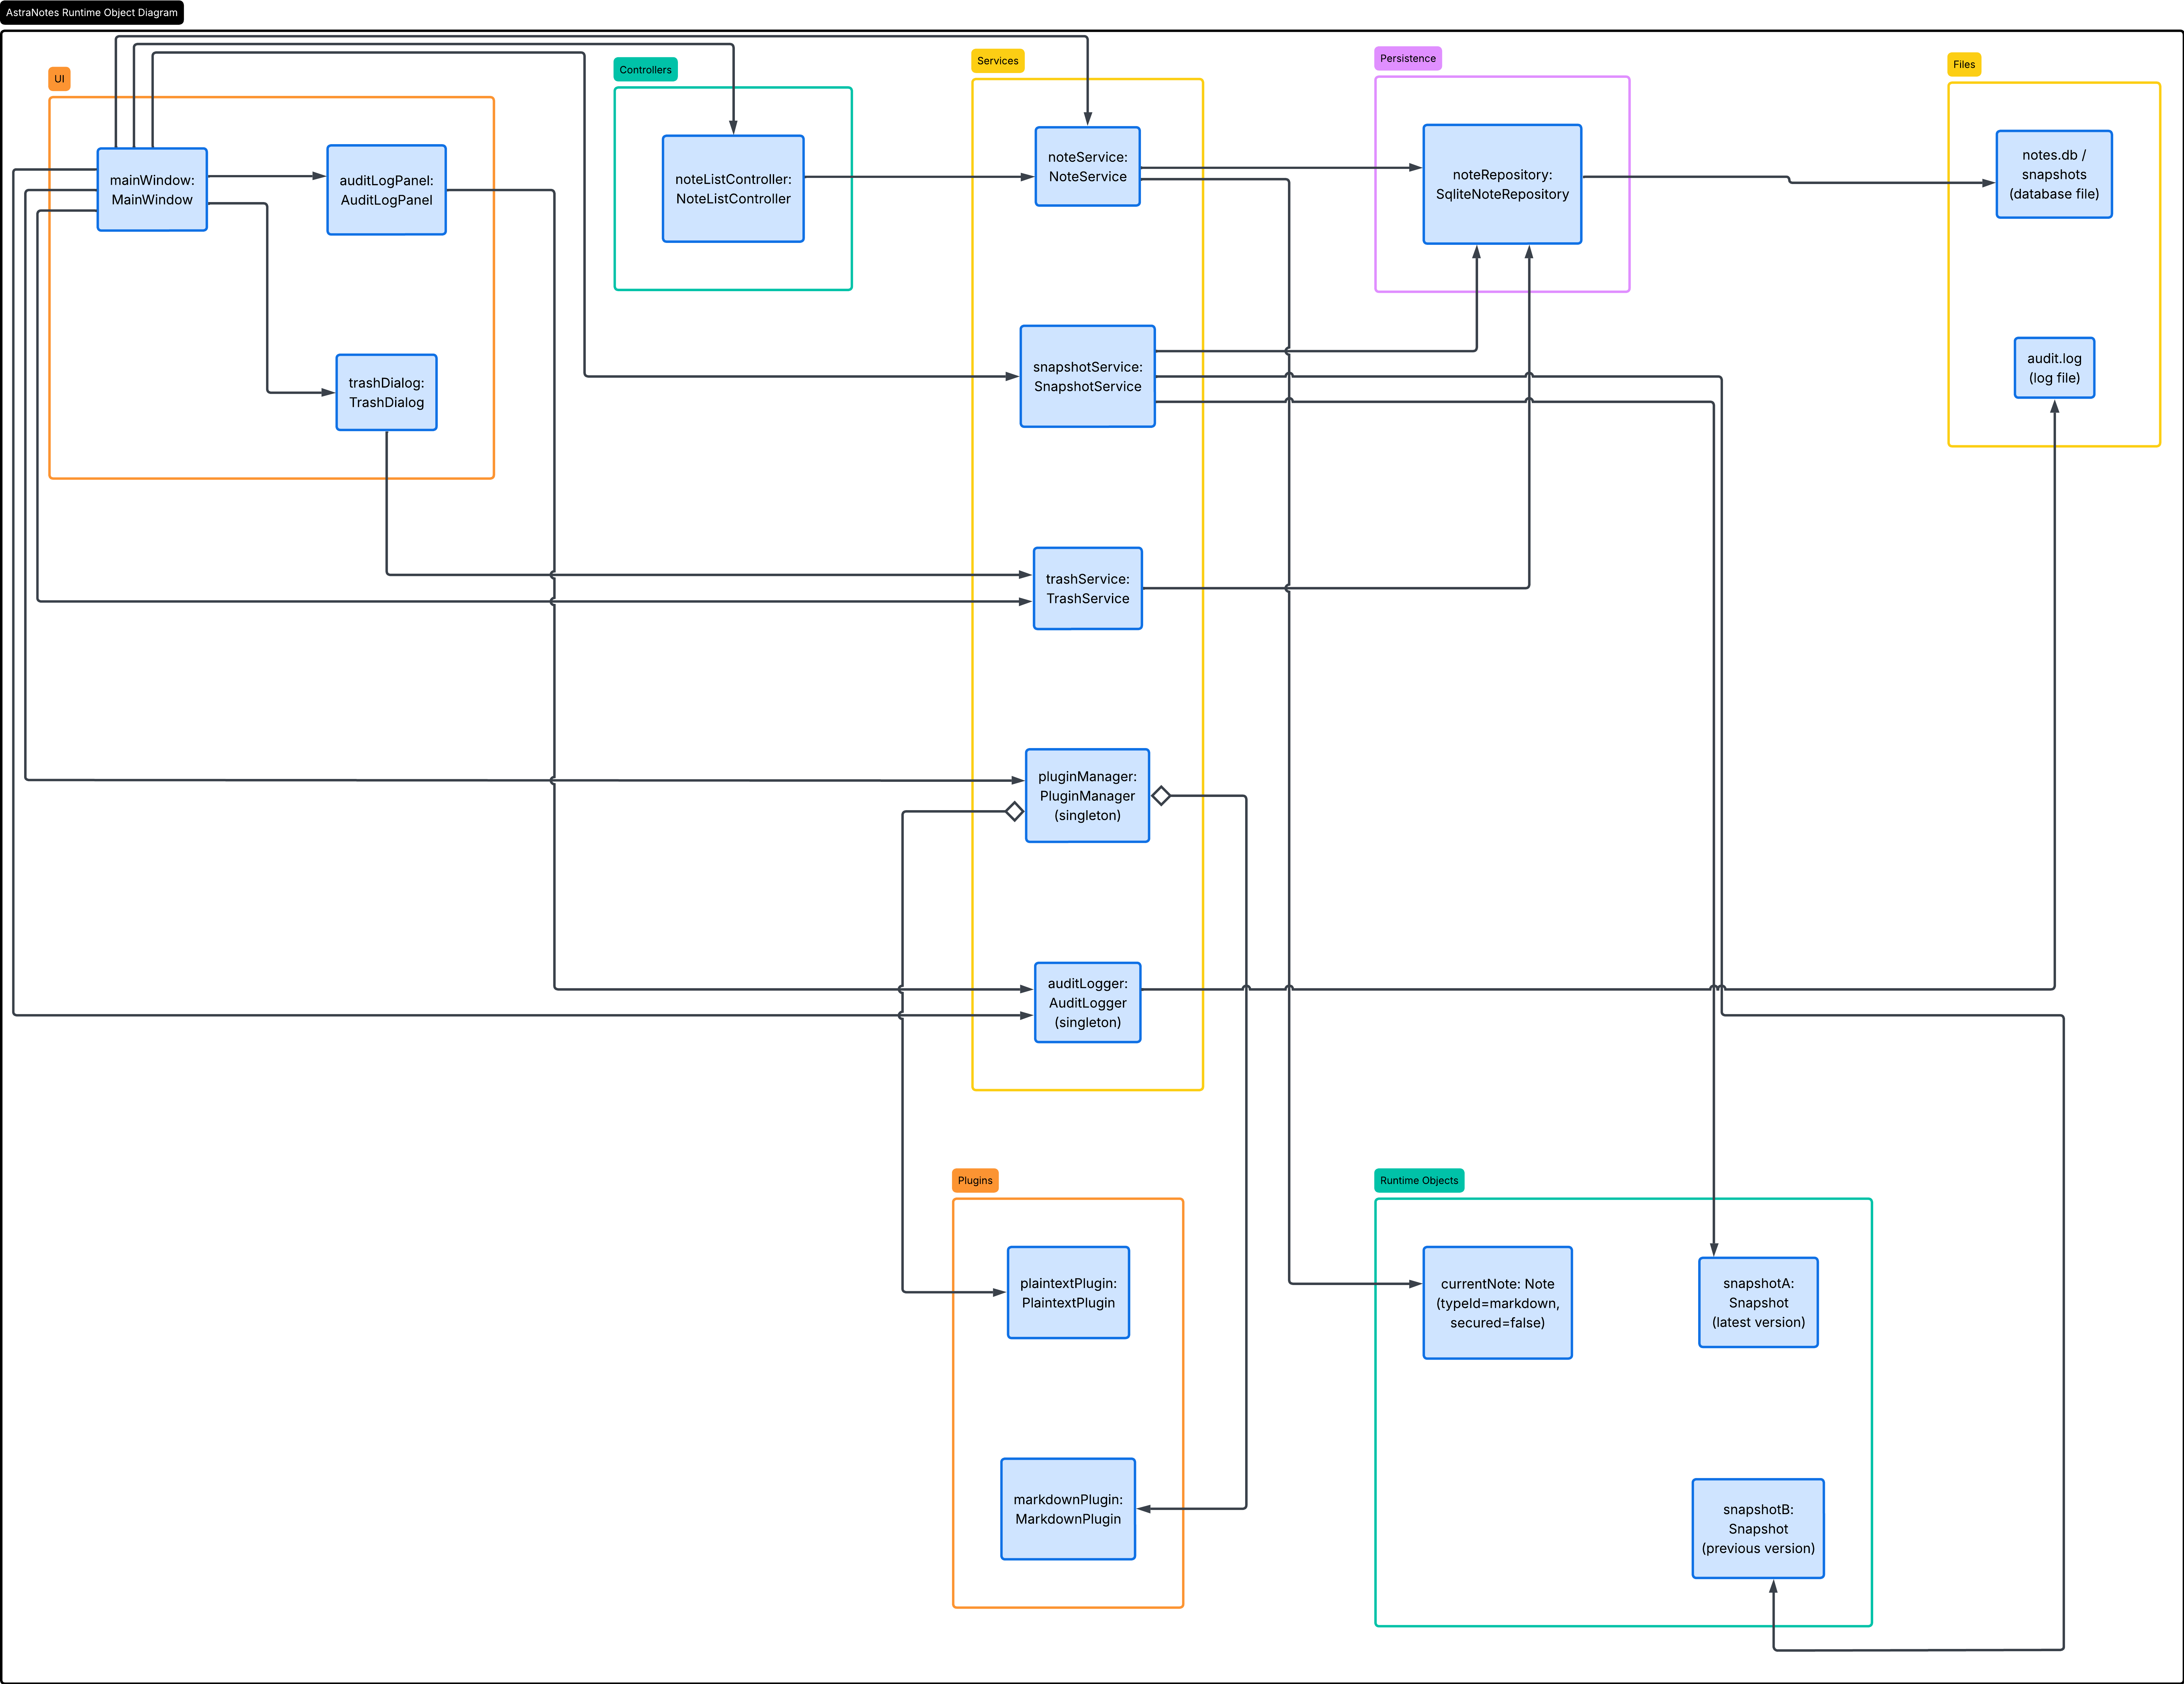
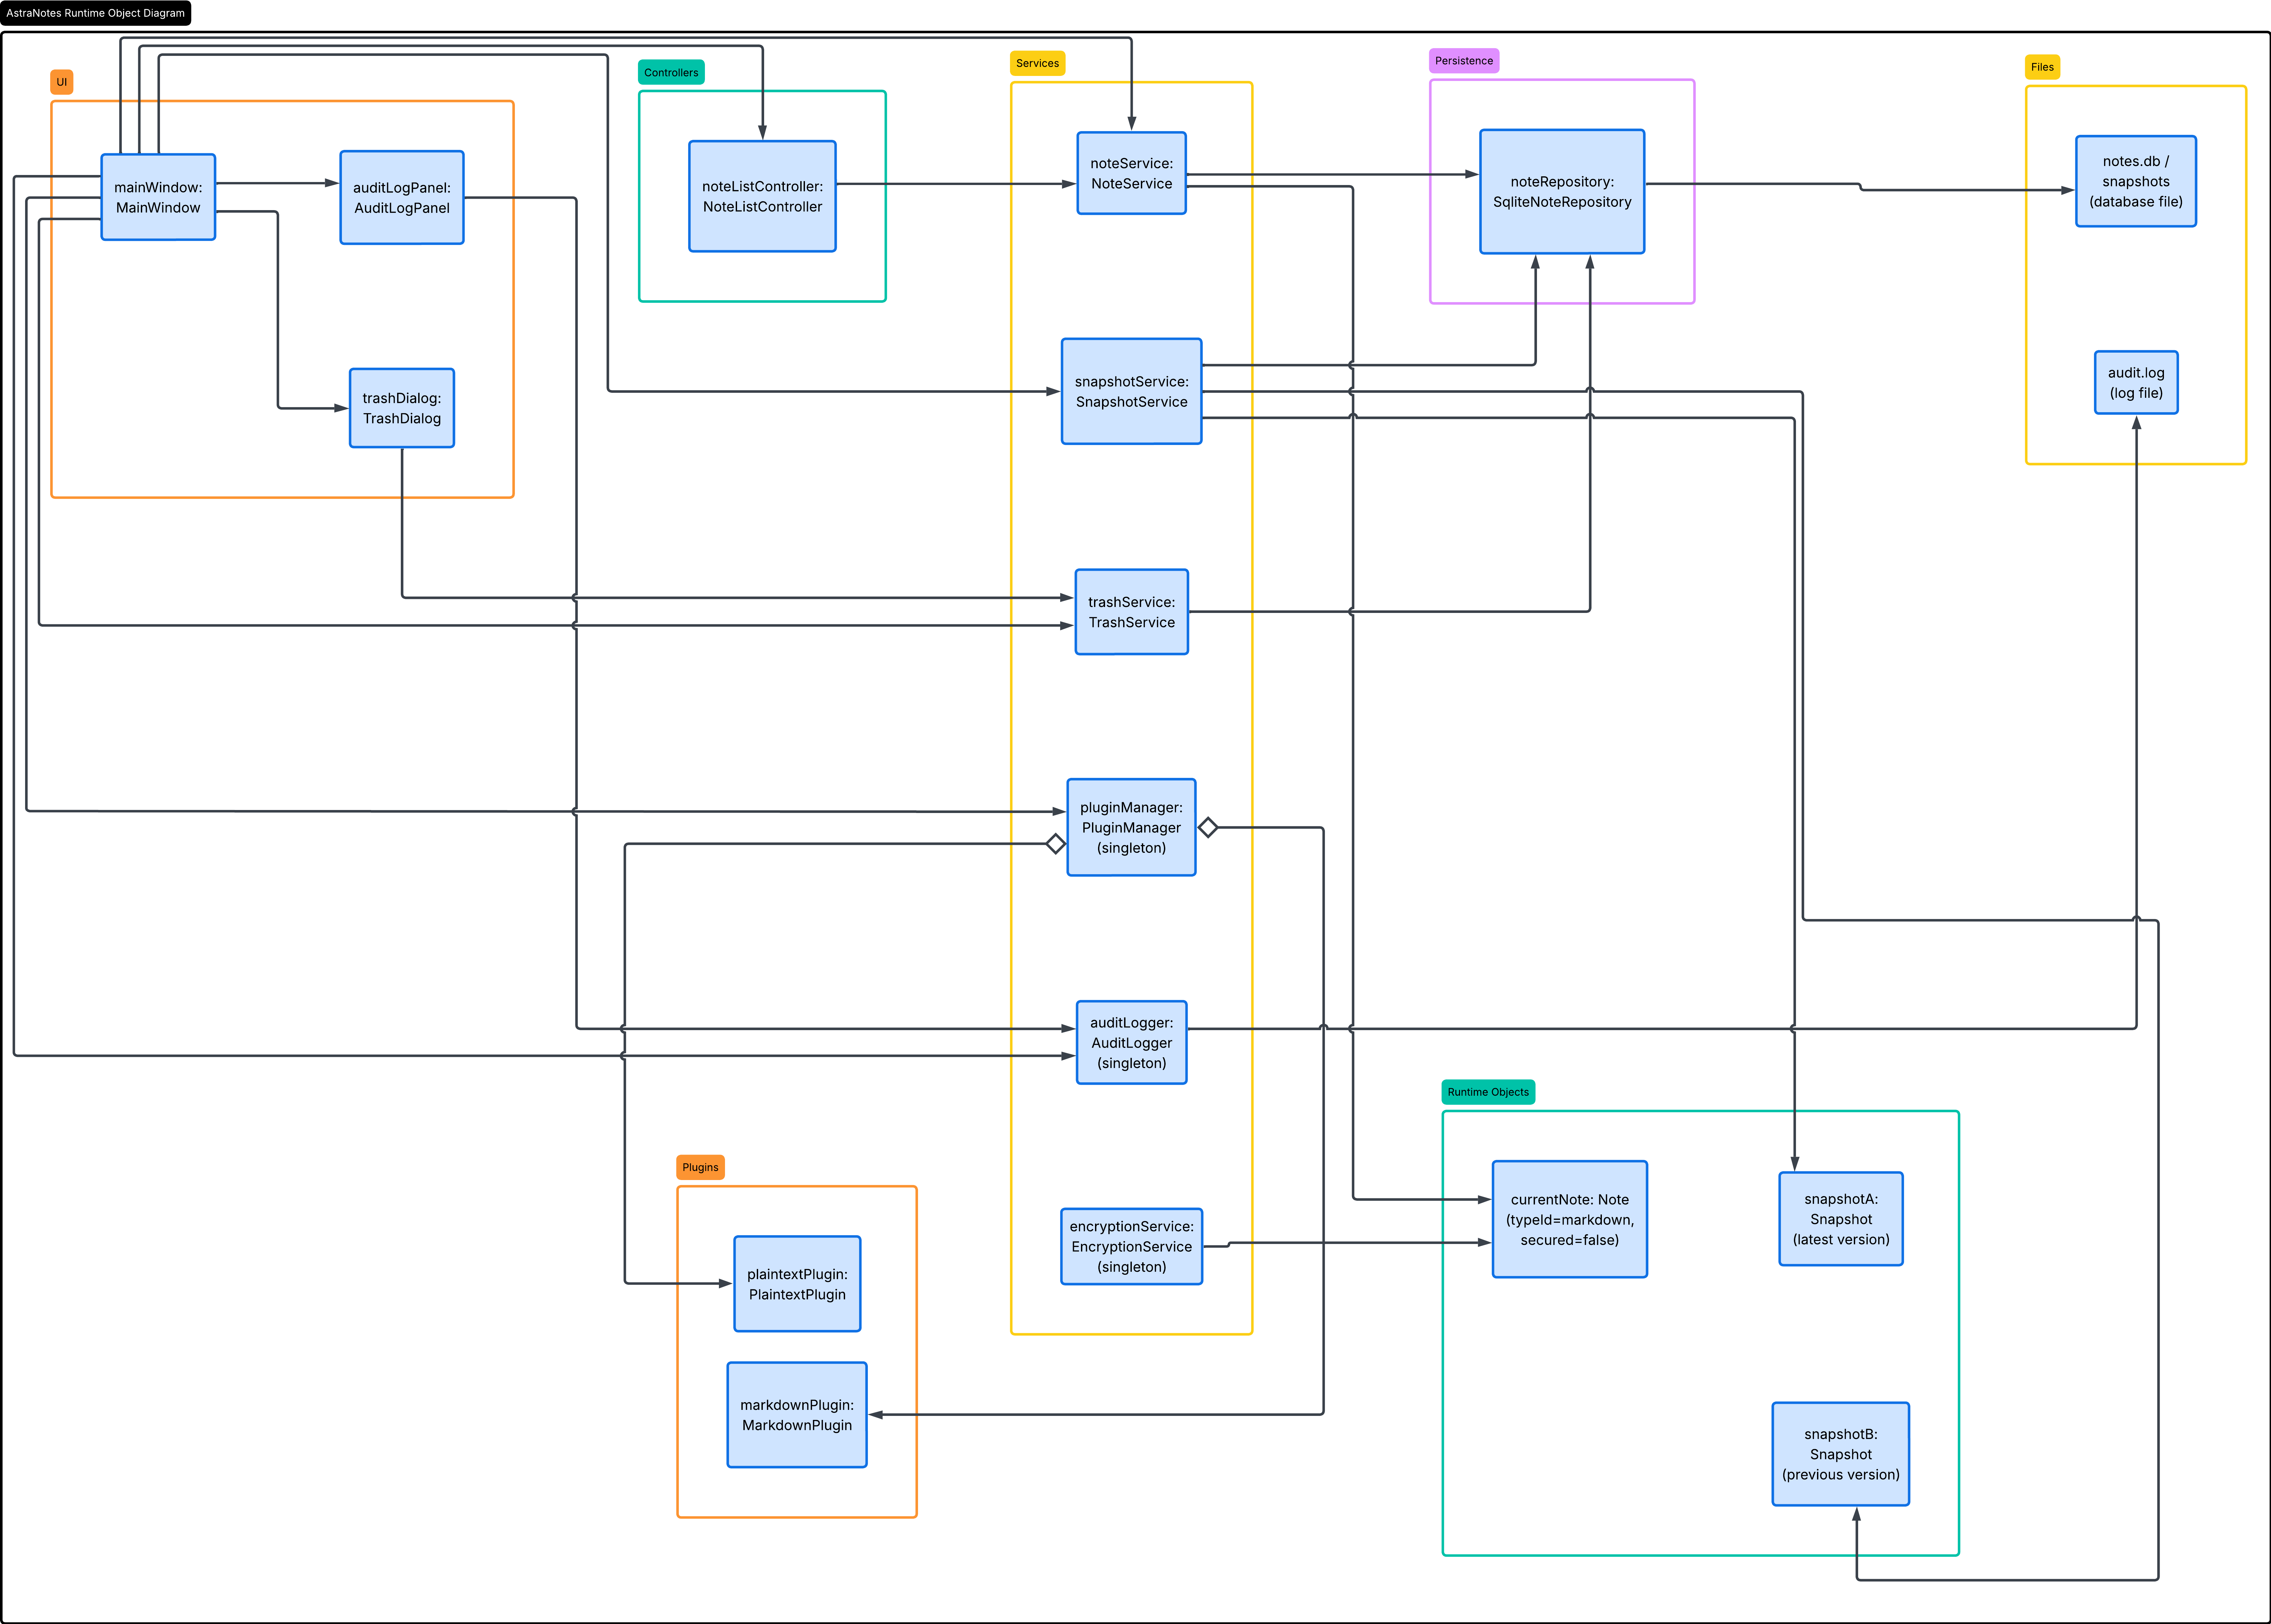
Reviewed validation documentation

diff --git a/docs/validation/REQUIREMENT_TRACEABILITY_MATRIX.md b/docs/validation/REQUIREMENT_TRACEABILITY_MATRIX.md
@@ -1,0 +1,96 @@
+# AstraNotes: Requirement Traceability Matrix
+
+**Date**: June 5, 2026  
+**Purpose**: Validate alignment between INITIAL_REQUIREMENTS_REVISED.md and UML diagram evidence  
+**Scope**: 16 key requirements (9 functional, 3 non-functional, 4 security)  
+**UML Sources**: Class Diagram, Object Diagram, Use Case Diagram, Activity Diagram, Deployment Diagram  
+---
+
+## Traceability Matrix Summary
+
+| Req ID | Requirement | Structural Evidence (Class & Object) | Behavioral Evidence (Use Case & Activity) | Deployment Evidence | Status | Gap Note |
+|--------|-------------|--------------------------------------|-------------------------------------------|---------------------|--------|----------|
+| **FR1** | Create/Edit notes + manual save + 500ms auto-save | Class: `Note`, `NoteService`, `SqliteNoteRepository`; Object: `currentNote` instance with unsecured state | Use case: Create Note, Edit Note, Manual Save, Auto Save (500ms). Activity: Editor action note shows separate flows for manual save and autosave using the debounced timer | UI editor -> NoteController -> NoteService -> SQLiteNoteRepository (transactional, WAL); error logging | **Fully Traced** | UTF-8 and explicit size constraint are not shown in the class diagram. Logging and non-blocking error paths are not shown in the activity diagram. |
+
+| **FR2** | Plugin-based note formats (load/validate plugins, select enabled formats, plugin-owned save/load serialization, graceful missing-plugin fallback) | Class: `PluginManager`, `IPlugin`, `PlaintextPlugin`, `MarkdownPlugin`, `Note.m_typeId`; Object: `pluginManager` for plugin resolution | Use case: Create Note -> Choose Note Type. Activity: startup plugin lifecycle + user format selection from loaded plugins | Plugin runtime + plugin directory loaded at startup; UI format selector bound to enabled plugin types | **Fully Traced** | Diagrams show plugin loading/selection, but do not explicitly show plugin refresh, save/load ownership for serialize/deserialize, or missing-plugin behavior (log + notify + read-only unsupported state). |
+
+| **FR3** | In-note, case-insensitive search | Class: `INoteRepository`; Object: `noteRepository` for search by content | Use case: Search In Open Note. Activity: User action -> Search Note flow | Persistence Layer INoteRepository -> SQLiteNoteRepository | **Fully Traced** | |
+
+| **FR4** | Case-insensitive search by Note Title | Class: `INoteRepository`, `NoteService`; Object: `noteRepository`, `noteService` for searching all notes by title | Use case: Search ALl Notes by Title. Activity: User action -> Search Note flow | Persistence Layer INoteRepository -> SQLiteNoteRepository, Service Layer | **Fully Traced** | |
+
+| **FR5** | Durable SQLite persistence with WAL, save completion after durable write, crash recovery from journal, and no session data loss on app/system failure | Class: `INoteRepository`, `SQLiteNoteRepository` with transactional save/get operations; Object: repository persists `currentNote` and snapshots | Use case: Create/Open/Save flows imply persistence. Activity: save commits, restore flow, graceful shutdown path | SQLite DB node + repository persistence layer; notes/snapshots tables shown | **Fully Traced** | Persistence architecture is shown, but WAL mode is not explicitly depicted in the deployment diagram; crash-recovery from journal and "no data loss" guarantee are not explicitly shown as UML behavior/constraints. |
+
+| **FR6** | Encrypt private notes with AES-256-GCM + Argon2id; transparent encrypt on save, decrypt on load after password prompt; error handling logs, notifies, preserves encrypted state | Class: `EncryptionService` (encrypt, decrypt, deriveKey), `Note.m_isSecured` field; Object: currentNote has secured=false | Use case: Encrypt or Decrypt Note. Activity: `NoteService` delegates to `EncryptionService`; password prompt on open for encrypted notes; type state updated after encryption | EncryptionService in security layer; encrypted content persisted to SQLite; key derivation at service layer | **Fully Traced** | Argon2id parameters (time cost 3, memory 65536 KiB, parallelism 1) and IV generation/storage not depicted in UML; "transparent" encrypt-on-save and decrypt-on-load flows are implied but not explicitly labeled. |
+
+| **FR7** | Attaching metadata to notes | Class: `SqliteNoteRepository`, `mainwindow`; Object: `noteRepository` | Use case: Metadata attached on save, either manual Save or Auto Save. Activity: Create New Note and Save Note Flow | Persistence Layer INoteRepository -> SQLiteNoteRepository | **Fully Traced** | Creation and attachment of metadata not explicitly shown in diagrams |
+
+| **FR8** | Auto-snapshot on save (max 2 per note, FIFO purge oldest); view/revert/delete snapshots; revert creates safety snapshot first; snapshots respect encryption | Class: `Snapshot` (snapshotId, noteId, serializedPayload), `SnapshotService.saveSnapshot()`, `SQLiteNoteRepository`; Object: snapshotA, snapshotB linked to `currentNote` with max 2 enforced | Use case: Review Version History, Restore Previous Version shown. Activity: Revert path shows creating safety snapshot before applying selected; restore flow explicit | Repository layer manages snapshot lifecycle and storage in SQLite; snapshots persisted locally and accessible on demand | **Fully Traced** | Activity diagram shows snapshot creation only during the revert/restore flow (safety snapshot before applying), but does not explicitly show automatic snapshot creation on every manual/auto-save operation or at note close; max 2 constraint and FIFO purge are implicit in repository design, not explicitly diagrammed. |
+
+| **FR9** | Single/bulk deletion to Trash with 14-day retention, auto-purge, restore capability, transactional operations | Class: `TrashService.trashNote()`, `TrashService.restoreNote()` methods; repository delete/trash operations | Use case: Delete Note to Trash, Restore Note from Trash. Activity: Delete branch -> Mark note as trashed (hidden) -> Persist state -> Return to list | Trash flag persisted in SQLite; scheduled purge task runs cleanup after 14 days; UI layer shows separate Trash view; all operations transactional | **Fully Traced** |Transactional guarantees for delete/restore/purge are implicit in repository design, not explicitly diagrammed. |
+
+| **NFR1** | Meet performance targets: save <50ms, load <100ms, search (10K notes) <200ms, pagination <500ms | Class:  INoteRepository searchByContent and searchByTitle methods with FTS5 indexing; Object: `noteRepository` instance that sits between services and persisted files | Use case: Search All Notes by Title expected to complete quickly. Activity: Search execution shown; cache hit/miss paths implicit through service layer | SQLite FTS5 indexes on title/metadata; lazy loading of content on demand | **Fully Traced** | Architecture supports performance targets through caching, indexing, and lazy loading; performance is a verification/testing concern, not a structural design artifact. |
+
+| **NFR2** | System shall support at least 10,000 notes | Class: `INoteRepository`, `NoteService`; Object: `noteRepository`, `noteService` for performing the loading, saving, creation operations | Use case/Activity: Not directly modeled as this is a performance metric. | Persistence Layer INoteRepository -> SQLiteNoteRepository | **Fully Traced** | As this requirement is a performance metric, directly modeling 10,000 notes in the system is inferred and not explicitly shown in the diagrams. |
+
+| **NFR3** | Crash recovery via SQLite WAL with graceful shutdown on normal exit | Class: transactional repository saves; explicit service error handling semantics; Object: mainWindow | Use case/activity: graceful shutdown is explicit (on exit: Save, Discard, or Cancel). WAL-based consistency recovery is implied at startup | SQLite with WAL; transactional persistence and clean shutdown responsibilities in service/repository layers | **Fully Traced** | UML explicitly models normal user-initiated exit handling, and shows user-led recovery options.  While restarts from crashes is not explicitly shown, they follow similar paths to the user led actions. |
+
+| **SR1** | Private-note encryption with AES-256-GCM, 256-bit key from Argon2id (t=3, m=65536 KiB, p=1), random IV per encryption stored with ciphertext, and decryption only with correct password | Class: `EncryptionService` (encrypt/decrypt/deriveKey), `Note` secure type state; Object: encryption service connection to note shown | Use case: Encrypt or Decrypt Note; Open Note prompts for password before decrypt. Activity: encrypt/decrypt branch with password-gated decryption and secure-state transitions | EncryptionService in security layer; encrypted payload persisted in SQLite; key derivation handled in service layer | **Fully Traced** | UML supports the high-level encryption/decryption flow and password gate, but does not explicitly encode Argon2id parameter values (t=3, m=65536 KiB, p=1), IV generation, or an explicit "decryption succeeds only with correct password" constraint annotation. |
+
+| **SR2** | Append-only audit log | Class: `AuditLogPanel`; Object: `auditLogPanel`, audit.log | Use case: Admin/Diagnostic Role -> View Audit Logs | Infrastructure layer with Audit Logging and Error handling | **Fully Traced** | |
+
+
+| **SR3** | Parameterized SQL queries | Class: `SqliteNoteRepository`; Object: `noteRepository` | Use case/Activity: Searching by title or content uses parameterized queries | Persistence Layer | **Fully Traced** | UML does not show the specific parameterized queries, but every time a method needs to search the database they are used. |
+
+| **SR4** | Error Logging Handling | Class/Object: `mainwindow` | Use case: N/A as error handling is a backend system function; Activity: Validation and some error handling like dirty status of a note is shown.| Infrastructure layer with Audit and Error logging | **Fully Traced** | UML doesn't show every error handling step and fall through cases such as what happens when a note loading fails.  This logic is handled my the mainwindow, when an action is performed the system will check if the correct value was returned or created and if not it assumes an error occurred and will take the appropriate action. There may be some cases where an error isn't logged when it should have been. |
+
+
+---
+
+## Summary Statistics
+
+| Category | Count |
+|----------|-------|
+| Fully Traced | 16 of 16 (100%) |
+| Partially Traced | 0 of 16 (0%) |
+| Weakly Traced | 0 of 16 (0%) |
+| Not Traced | 0 of 16 (0%) |
+
+**Fully Traced Requirements**:
+- ✅ FR1:   Create/Edit notes + manual save + 500ms auto-save
+- ✅ FR2:   Plugin-based note formats
+- ✅ FR3:   In-note, case-insensitive search
+- ✅ FR4:   Case-insensitive search by Note Title
+- ✅ FR5:   Durable SQLite persistence with WAL, save completion after durable write, crash recovery from journal, and no session data loss on app/system failure
+- ✅ FR6:   Encrypt private notes with AES-256-GCM + Argon2id
+- ✅ FR7:   Attaching metadata to notes
+- ✅ FR8:   Auto-snapshot on save
+- ✅ FR9:   Single/bulk deletion to Trash
+- ✅ NFR1:  Meet performance targets
+- ✅ NFR2:  System shall support at least 10,000 notes
+- ✅ NFR3:  Crash recovery via SQLite WAL with graceful shutdown on normal exit
+- ✅ SR1:   Private-note encryption with Argon2id
+- ✅ SR2:   Append-only audit log
+- ✅ SR3:   Parameterized SQL queries 
+- ✅ SR4:   Error Logging Handling
+
+
+**Partially Traced Requirements**:
+- None
+
+**Weakly Traced Requirements**:
+- None 
+
+---
+
+## Gap Analysis and Recommendations
+
+Most of the gaps analyzed are from version 1.0.  These gaps discuss information missing from UML diagrams which is present in other documentation.  Implementation specific details and other flows cannot all be diagramed in the UML and are hence discussed elsewhere.
+
+---
+
+**Document Control**
+
+| Version | Date | Purpose |
+|---------|------|---------|
+| 1.0 | 2026-04-27 | Initial traceability matrix for 9 key requirements extracted from INITIAL_REQUIREMENTS.md |
+| 2.0 | 2026-06-5 | Project Completion Traceability Matrix |

diff --git a/docs/validation/AI_HUMAN_OVERSIGHT.md b/docs/validation/AI_HUMAN_OVERSIGHT.md
@@ -1,0 +1,44 @@
+# AstraNotes AI and Human Oversight
+
+**Purpose**: Record how AI assistance was used during the project and which decisions were refined or rejected by human judgment.
+
+---
+
+## AI-Assisted Work
+
+- Documentation restructuring and cleanup suggestions.
+- Test coverage mapping and traceability review.
+- CMake, CI, and platform-compatibility debugging assistance.
+- README drafting.
+- Code creation aligning to documentation and user guidance.
+
+## Accepted Suggestions
+
+- Using a clearer docs index in the README.
+- Tightening the validation traceability matrix to match the current test names.
+- Documenting the audit log storage path explicitly.
+- Making the project a single-user desktop application.
+- Clearly separating MVC functions via a project refactor.
+
+## Refined Suggestions
+
+- Sub-folders within the documentation folder to ensure all documents are organized by their respective phase throughout the project.
+- Older documentation was kept as legacy context instead of being deleted, so the defense packet preserves the project history.
+- The README was shortened and focused on setup, usage, requirements, and defense-ready navigation rather than a full source tree dump.
+
+## Rejected Suggestions
+
+- Any suggestion to hide missing validation or skip important runtime coverage was rejected.
+- Any suggestion to over-compress the docs at the expense of reviewer clarity was rejected.
+- Any suggestion involving large code changes or refactors in one go.  These workflows were broken up into smaller pieces focusing on one class, method, or file at a time.
+
+## Human Decisions
+
+- Preserve historical artifacts in `docs/legacy/` for AI tracking and review continuity.
+- Keep requirements, planning, architecture, validation, and operations artifacts easy to find.
+- Prefer honest documentation of gaps over pretending every artifact is fully finalized.
+- Use the Qt framework as the backbone of the project for easy cross-compatibility.
+- Adopt the Liskov Substitution Principle and the Dependency Inversion Principle involving a code refactor to ensure the application is portable ie. a database other than SQLite can be used as long as it inherits INoteRepository.
+
+## Lessons Learned
+While AI-Driven Software Development allows for accelerated coding, it is still important to take care in not letting AI run the project.  It is capable of producing large amounts of code and documentation from a single prompt, and the project can drift even if the AI claims to be following the documentation.  While AstraNotes has ample documentation and they all contain useful information, I believe that the amount of documentation can be overwhelming for a new developer coming into the project.  I created the sub-folders for the documents at the end of the project to help organize them, and so it is less overwhelming.  In the future, when I am orchestrating AI, I plan to create document sub-folders at the start of the project, with each sub-folder relating to a clear phase in the SDLC.  I believe that this type of organization will allow for greater traceability and a more consistent, smooth project flow.